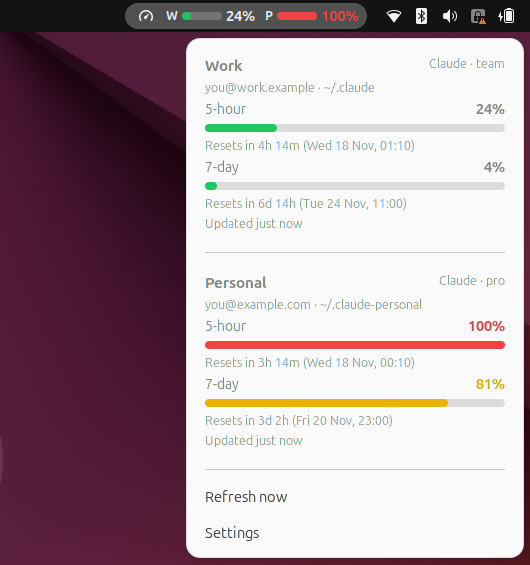
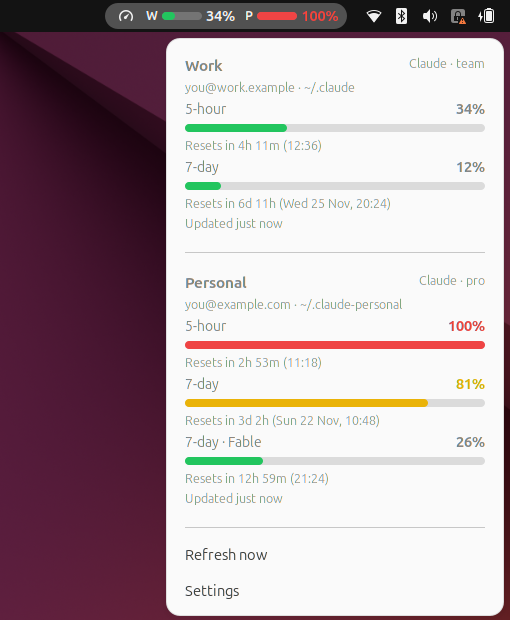
Show the weekly Fable limit in the README screenshot
The screenshot now includes a per-model weekly limit, still with
example emails. The install steps link the extension page, use
--force so the same command updates an older copy, and explain the
log out / log in step and how to enable it from a terminal.

Changed region(s): [[0.0294, 0.0, 1.0, 1.0], [0.1176, 0.0903, 0.1765, 0.1204], [0.1765, 0.1204, 0.2059, 0.1504]]

diff --git a/README.md b/README.md
@@ -5,6 +5,7 @@ See how much of your Claude Code plan you have used, for every account you are l
 ![AI Quota Meter in the GNOME top panel](docs/screenshot.png)
 
 - Shows the 5-hour and weekly limits, with bars, percentages and when each one resets.
+- Shows per-model weekly limits too (for example a weekly Fable limit) when your plan has them.
 - Works with several accounts at once (for example `~/.claude` for work and `~/.claude-personal` for home).
 - Remembers the last values, so they show up right after you log in, even offline.
 - Codex (ChatGPT) accounts are supported experimentally.
@@ -15,13 +16,19 @@ Available as a GNOME Shell extension (Linux) and as a menu bar / system tray app
 
 ### GNOME (Ubuntu, Fedora, …)
 
-GNOME Shell 46 to 49. Install it from [extensions.gnome.org](https://extensions.gnome.org/), or from a release zip:
+GNOME Shell 46 to 49. Install it from [extensions.gnome.org](https://extensions.gnome.org/extension/11808/), or download `ai-quota-meter-gnome-v….zip` from [Releases](https://github.com/Srabon444/ai-quota-meter/releases) and run:
 
 ```bash
-gnome-extensions install ai-quota-meter-gnome-v1.0.0.zip
+gnome-extensions install --force ai-quota-meter-gnome-v1.0.1.zip
 ```
 
-Log out and back in, then turn it on in the Extensions app.
+`--force` replaces an older copy, so the same command also updates it.
+
+Log out and back in (GNOME only picks up new extensions at login), then turn it on in the Extensions app or with:
+
+```bash
+gnome-extensions enable ai-quota-meter@srabon444.github.io
+```
 
 ### macOS
 
